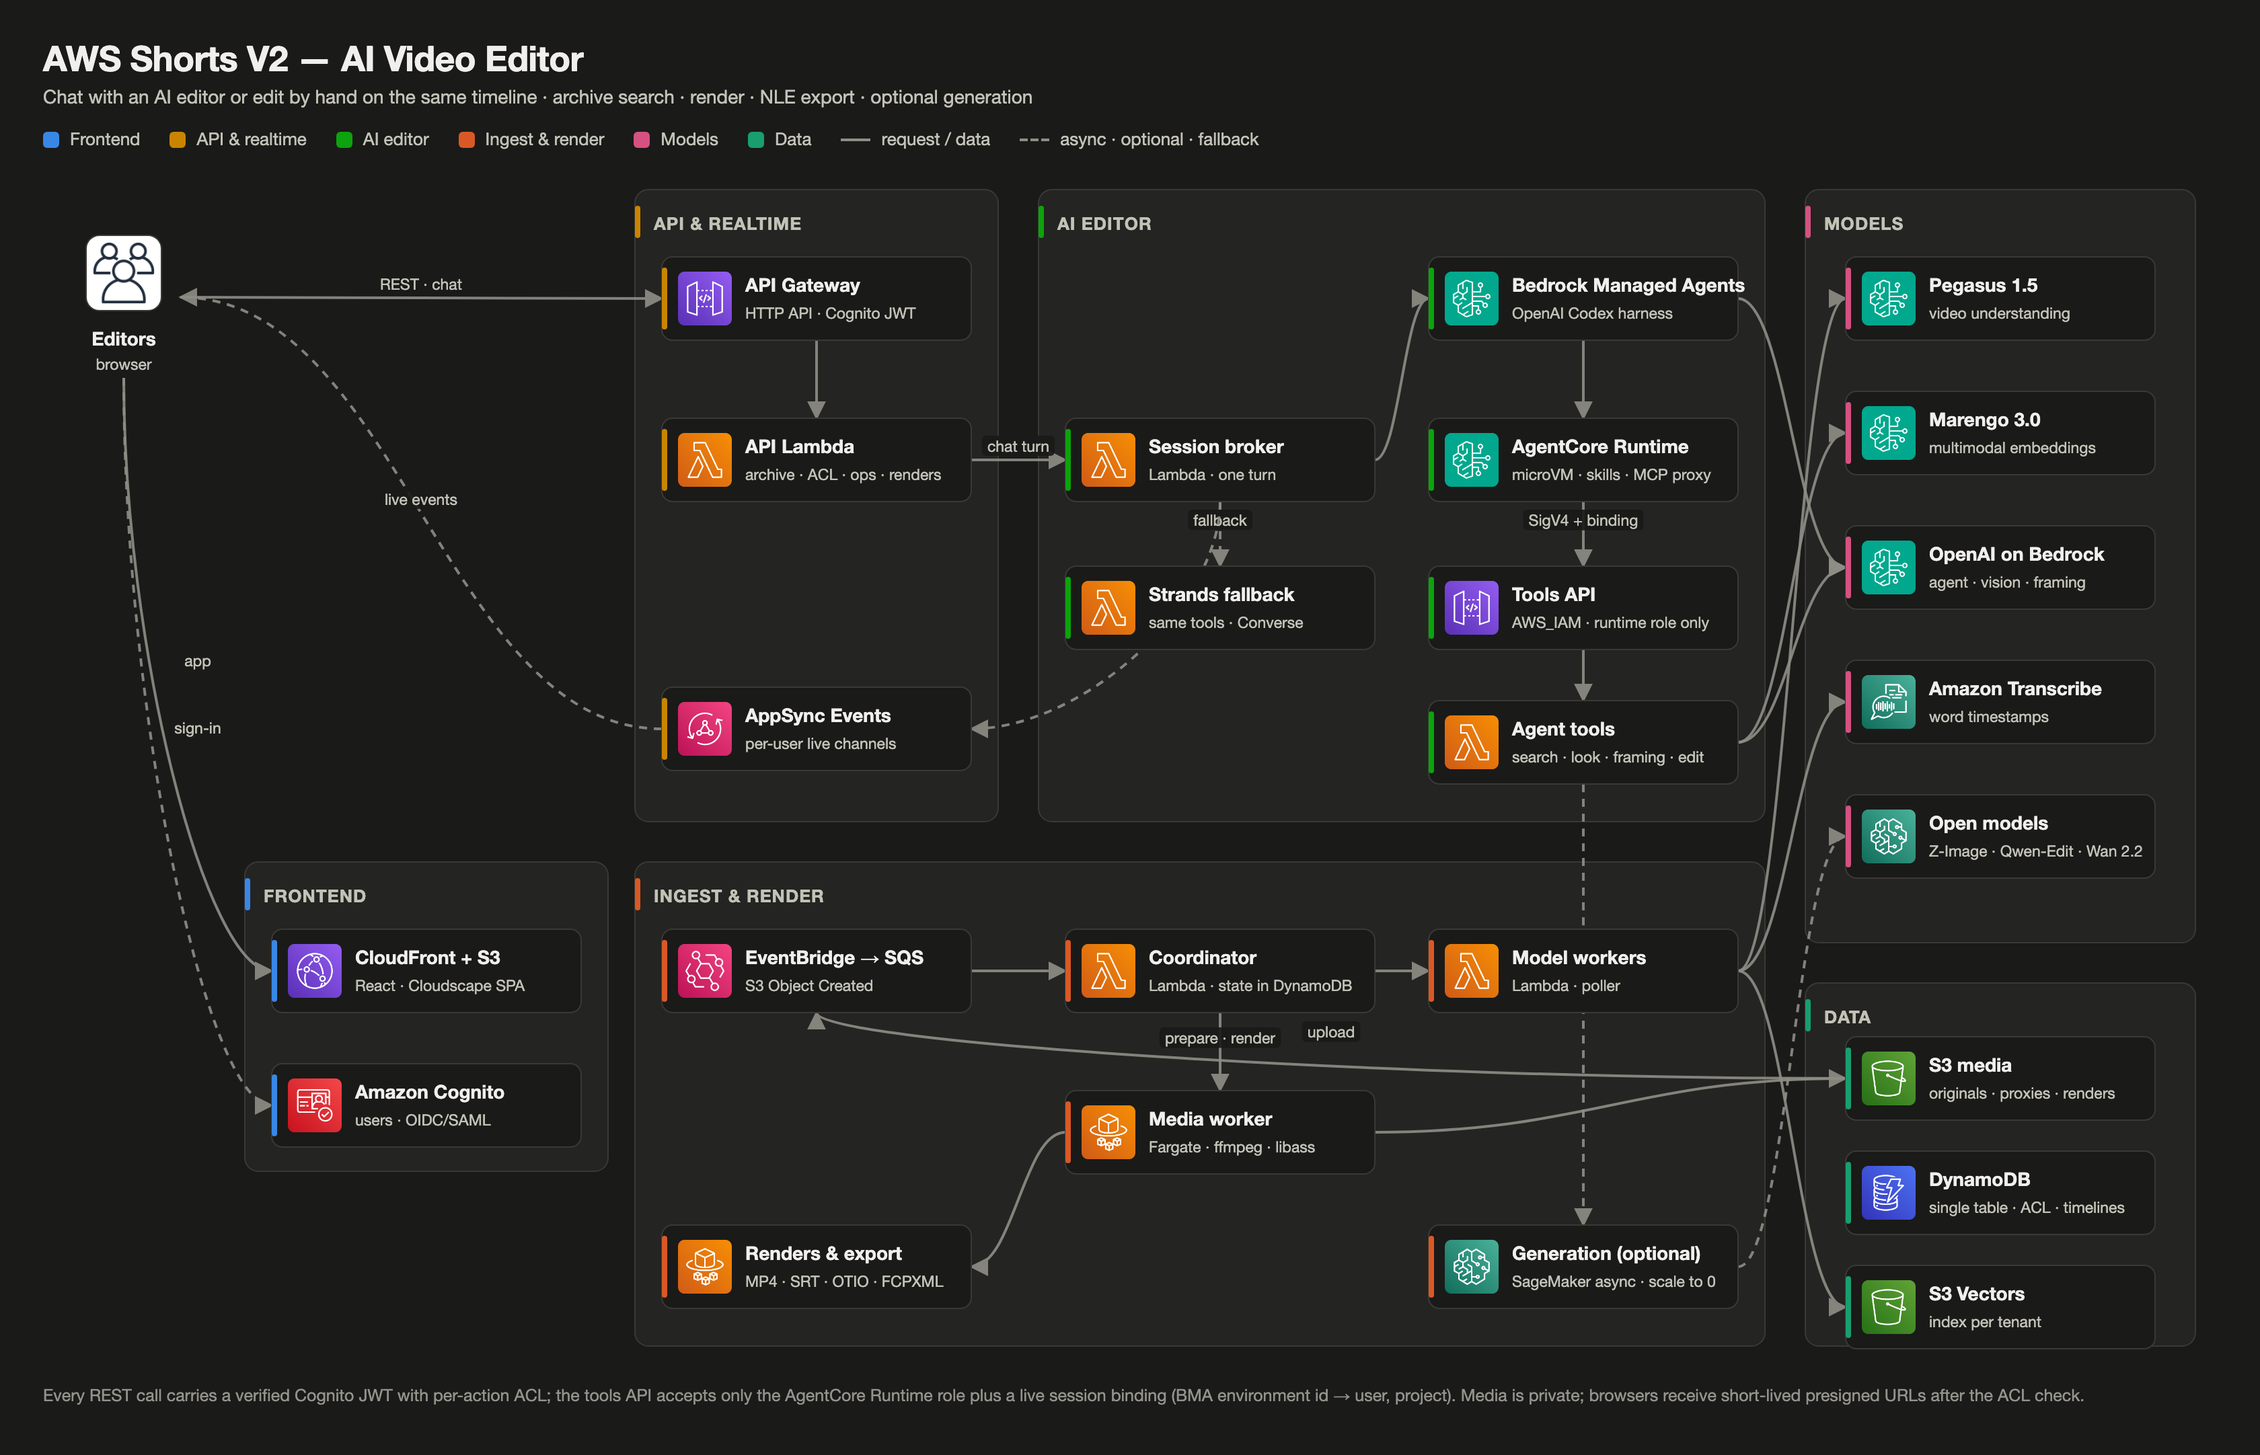
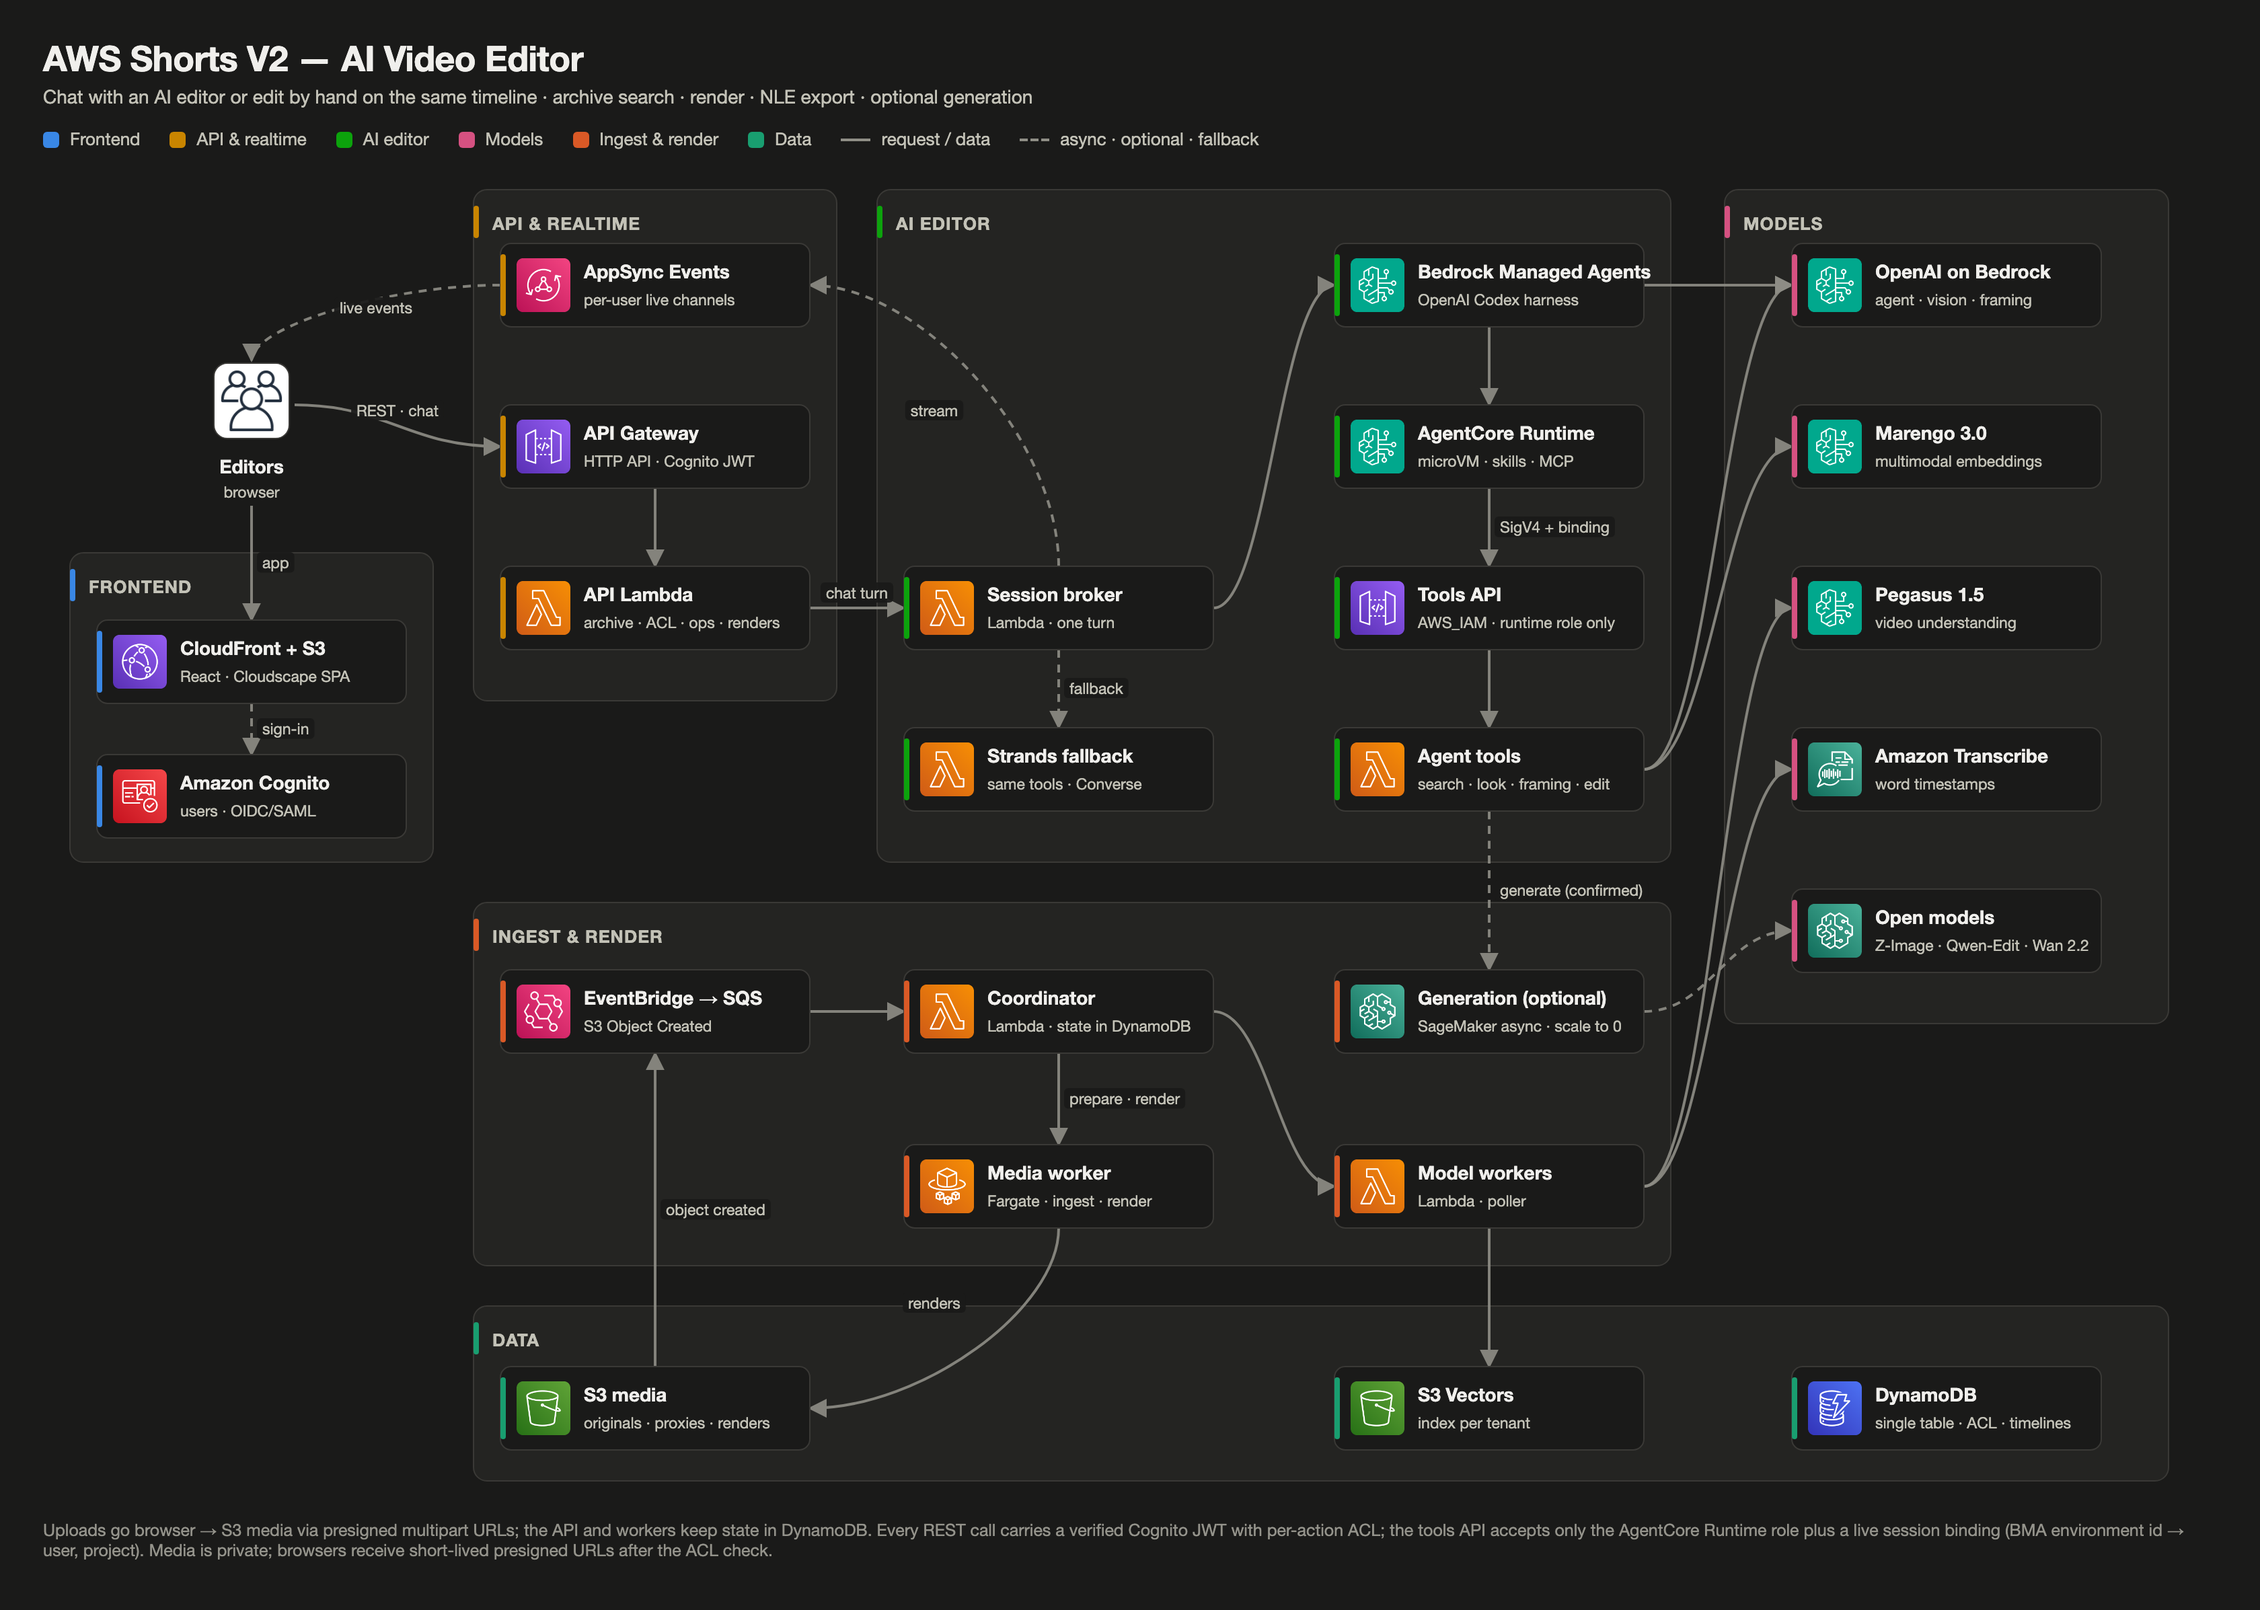
Architecture diagram: grid layout without edge/box collisions

diff --git a/docs/architecture/architecture.html b/docs/architecture/architecture.html
@@ -42,61 +42,66 @@
   <h1>AWS Shorts V2 — AI Video Editor</h1>
   <p class="sub">Chat with an AI editor or edit by hand on the same timeline · archive search · render · NLE export · optional generation</p>
   <div class="legend" id="legend"></div>
-  <svg id="d" width="1616" height="900" viewBox="0 0 1616 900" role="img" aria-label="Architecture diagram"></svg>
-  <p class="note">Every REST call carries a verified Cognito JWT with per-action ACL; the tools API accepts only the AgentCore Runtime role plus a live
+  <svg id="d" width="1600" height="1000" viewBox="0 0 1600 1000" role="img" aria-label="Architecture diagram"></svg>
+  <p class="note">Uploads go browser → S3 media via presigned multipart URLs; the API and workers keep state in DynamoDB. Every REST call carries a verified Cognito JWT with per-action ACL; the tools API accepts only the AgentCore Runtime role plus a live
   session binding (BMA environment id → user, project). Media is private; browsers receive short-lived presigned URLs after the ACL check.</p>
 </div>
 <script>
+// Grid: columns A (users/frontend) · B (API) · C+D (AI editor) · E (models); ingest + data below.
 const LANES = [
-  { id: 'fe', name: 'Frontend', color: 'var(--s1)', x: 150, y: 520, w: 270, h: 230 },
-  { id: 'api', name: 'API & realtime', color: 'var(--s4)', x: 440, y: 20, w: 270, h: 470 },
-  { id: 'ai', name: 'AI editor', color: 'var(--s6)', x: 740, y: 20, w: 540, h: 470 },
-  { id: 'ing', name: 'Ingest & render', color: 'var(--s2)', x: 440, y: 520, w: 840, h: 360 },
-  { id: 'mod', name: 'Models', color: 'var(--s5)', x: 1310, y: 20, w: 290, h: 560 },
-  { id: 'data', name: 'Data', color: 'var(--s3)', x: 1310, y: 610, w: 290, h: 270 },
+  { id: 'fe', name: 'Frontend', color: 'var(--s1)', x: 20, y: 290, w: 270, h: 230 },
+  { id: 'api', name: 'API & realtime', color: 'var(--s4)', x: 320, y: 20, w: 270, h: 380 },
+  { id: 'ai', name: 'AI editor', color: 'var(--s6)', x: 620, y: 20, w: 590, h: 500 },
+  { id: 'mod', name: 'Models', color: 'var(--s5)', x: 1250, y: 20, w: 330, h: 620 },
+  { id: 'ing', name: 'Ingest & render', color: 'var(--s2)', x: 320, y: 550, w: 890, h: 270 },
+  { id: 'data', name: 'Data', color: 'var(--s3)', x: 320, y: 850, w: 1260, h: 130 },
 ];
 const W = 230, H = 62;
-const ICON = {"cdn": "cloudfront", "cog": "cognito", "http": "apigw", "apifn": "lambda", "ev": "appsync", "broker": "lambda", "bma": "bedrock", "acr": "bedrock", "tapi": "apigw", "tools": "lambda", "strands": "lambda", "eb": "eventbridge", "coord": "lambda", "worker": "fargate", "mw": "lambda", "gen": "sagemaker", "render": "fargate", "peg": "bedrock", "mar": "bedrock", "oai": "bedrock", "tr": "transcribe", "oss": "sagemaker", "s3": "s3", "ddb": "dynamodb", "vec": "s3"};
+const ICON = { cdn: 'cloudfront', cog: 'cognito', http: 'apigw', apifn: 'lambda', ev: 'appsync', broker: 'lambda', bma: 'bedrock',
+  acr: 'bedrock', tapi: 'apigw', tools: 'lambda', strands: 'lambda', eb: 'eventbridge', coord: 'lambda', worker: 'fargate',
+  mw: 'lambda', gen: 'sagemaker', render: 'fargate', peg: 'bedrock', mar: 'bedrock', oai: 'bedrock', tr: 'transcribe',
+  oss: 'sagemaker', s3: 's3', ddb: 'dynamodb', vec: 's3' };
 const N = {
-  user:   { lane: null, x: 10, y: 60, t: 'Editors', s: 'browser' },
-  cdn:    { lane: 'fe', x: 170, y: 570, t: 'CloudFront + S3', s: 'React · Cloudscape SPA' },
-  cog:    { lane: 'fe', x: 170, y: 670, t: 'Amazon Cognito', s: 'users · OIDC/SAML' },
-  http:   { lane: 'api', x: 460, y: 70, t: 'API Gateway', s: 'HTTP API · Cognito JWT' },
-  apifn:  { lane: 'api', x: 460, y: 190, t: 'API Lambda', s: 'archive · ACL · ops · renders' },
-  ev:     { lane: 'api', x: 460, y: 390, t: 'AppSync Events', s: 'per-user live channels' },
-  broker: { lane: 'ai', x: 760, y: 190, t: 'Session broker', s: 'Lambda · one turn' },
-  bma:    { lane: 'ai', x: 1030, y: 70, t: 'Bedrock Managed Agents', s: 'OpenAI Codex harness' },
-  acr:    { lane: 'ai', x: 1030, y: 190, t: 'AgentCore Runtime', s: 'microVM · skills · MCP proxy' },
-  tapi:   { lane: 'ai', x: 1030, y: 300, t: 'Tools API', s: 'AWS_IAM · runtime role only' },
-  tools:  { lane: 'ai', x: 1030, y: 400, t: 'Agent tools', s: 'search · look · framing · edit' },
-  strands:{ lane: 'ai', x: 760, y: 300, t: 'Strands fallback', s: 'same tools · Converse' },
-  eb:     { lane: 'ing', x: 460, y: 570, t: 'EventBridge → SQS', s: 'S3 Object Created' },
-  coord:  { lane: 'ing', x: 760, y: 570, t: 'Coordinator', s: 'Lambda · state in DynamoDB' },
-  worker: { lane: 'ing', x: 760, y: 690, t: 'Media worker', s: 'Fargate · ffmpeg · libass' },
-  mw:     { lane: 'ing', x: 1030, y: 570, t: 'Model workers', s: 'Lambda · poller' },
-  gen:    { lane: 'ing', x: 1030, y: 790, t: 'Generation (optional)', s: 'SageMaker async · scale to 0' },
-  render: { lane: 'ing', x: 460, y: 790, t: 'Renders & export', s: 'MP4 · SRT · OTIO · FCPXML' },
-  peg:    { lane: 'mod', x: 1340, y: 70, t: 'Pegasus 1.5', s: 'video understanding' },
-  mar:    { lane: 'mod', x: 1340, y: 170, t: 'Marengo 3.0', s: 'multimodal embeddings' },
-  oai:    { lane: 'mod', x: 1340, y: 270, t: 'OpenAI on Bedrock', s: 'agent · vision · framing' },
-  tr:     { lane: 'mod', x: 1340, y: 370, t: 'Amazon Transcribe', s: 'word timestamps' },
-  oss:    { lane: 'mod', x: 1340, y: 470, t: 'Open models', s: 'Z-Image · Qwen-Edit · Wan 2.2' },
-  s3:     { lane: 'data', x: 1340, y: 650, t: 'S3 media', s: 'originals · proxies · renders' },
-  ddb:    { lane: 'data', x: 1340, y: 735, t: 'DynamoDB', s: 'single table · ACL · timelines' },
-  vec:    { lane: 'data', x: 1340, y: 820, t: 'S3 Vectors', s: 'index per tenant' },
+  user:   { x: 105, y: 155, t: 'Editors', s: 'browser' },
+  cdn:    { lane: 'fe', x: 40, y: 340, t: 'CloudFront + S3', s: 'React · Cloudscape SPA' },
+  cog:    { lane: 'fe', x: 40, y: 440, t: 'Amazon Cognito', s: 'users · OIDC/SAML' },
+  ev:     { lane: 'api', x: 340, y: 60, t: 'AppSync Events', s: 'per-user live channels' },
+  http:   { lane: 'api', x: 340, y: 180, t: 'API Gateway', s: 'HTTP API · Cognito JWT' },
+  apifn:  { lane: 'api', x: 340, y: 300, t: 'API Lambda', s: 'archive · ACL · ops · renders' },
+  broker: { lane: 'ai', x: 640, y: 300, t: 'Session broker', s: 'Lambda · one turn' },
+  strands:{ lane: 'ai', x: 640, y: 420, t: 'Strands fallback', s: 'same tools · Converse' },
+  bma:    { lane: 'ai', x: 960, y: 60, t: 'Bedrock Managed Agents', s: 'OpenAI Codex harness' },
+  acr:    { lane: 'ai', x: 960, y: 180, t: 'AgentCore Runtime', s: 'microVM · skills · MCP' },
+  tapi:   { lane: 'ai', x: 960, y: 300, t: 'Tools API', s: 'AWS_IAM · runtime role only' },
+  tools:  { lane: 'ai', x: 960, y: 420, t: 'Agent tools', s: 'search · look · framing · edit' },
+  oai:    { lane: 'mod', x: 1300, y: 60, t: 'OpenAI on Bedrock', s: 'agent · vision · framing' },
+  mar:    { lane: 'mod', x: 1300, y: 180, t: 'Marengo 3.0', s: 'multimodal embeddings' },
+  peg:    { lane: 'mod', x: 1300, y: 300, t: 'Pegasus 1.5', s: 'video understanding' },
+  tr:     { lane: 'mod', x: 1300, y: 420, t: 'Amazon Transcribe', s: 'word timestamps' },
+  oss:    { lane: 'mod', x: 1300, y: 540, t: 'Open models', s: 'Z-Image · Qwen-Edit · Wan 2.2' },
+  eb:     { lane: 'ing', x: 340, y: 600, t: 'EventBridge → SQS', s: 'S3 Object Created' },
+  coord:  { lane: 'ing', x: 640, y: 600, t: 'Coordinator', s: 'Lambda · state in DynamoDB' },
+  gen:    { lane: 'ing', x: 960, y: 600, t: 'Generation (optional)', s: 'SageMaker async · scale to 0' },
+  worker: { lane: 'ing', x: 640, y: 730, t: 'Media worker', s: 'Fargate · ingest · render' },
+  mw:     { lane: 'ing', x: 960, y: 730, t: 'Model workers', s: 'Lambda · poller' },
+  s3:     { lane: 'data', x: 340, y: 895, t: 'S3 media', s: 'originals · proxies · renders' },
+  ddb:    { lane: 'data', x: 1300, y: 895, t: 'DynamoDB', s: 'single table · ACL · timelines' },
+  vec:    { lane: 'data', x: 960, y: 895, t: 'S3 Vectors', s: 'index per tenant' },
 };
 // [from, to, label, dashed, fromSide, toSide]
 const E = [
-  ['user', 'cdn', 'app', false, 'b', 'l'], ['user', 'cog', 'sign-in', true, 'b', 'l'], ['user', 'http', 'REST · chat', false],
-  ['http', 'apifn', '', false, 'b', 't'], ['ev', 'user', 'live events', true, 'l', 'r'],
-  ['apifn', 'broker', 'chat turn', false], ['broker', 'bma', '', false], ['bma', 'acr', '', false, 'b', 't'],
+  ['user', 'http', 'REST · chat', false, 'r', 'l'], ['user', 'cdn', 'app', false, 'b', 't'],
+  ['cdn', 'cog', 'sign-in', true, 'b', 't'], ['ev', 'user', 'live events', true, 'l', 't'],
+  ['http', 'apifn', '', false, 'b', 't'], ['apifn', 'broker', 'chat turn', false, 'r', 'l'],
+  ['broker', 'strands', 'fallback', true, 'b', 't'], ['broker', 'ev', 'stream', true, 't', 'r'],
+  ['broker', 'bma', '', false, 'r', 'l'], ['bma', 'acr', '', false, 'b', 't'],
   ['acr', 'tapi', 'SigV4 + binding', false, 'b', 't'], ['tapi', 'tools', '', false, 'b', 't'],
-  ['broker', 'strands', 'fallback', true, 'b', 't'], ['broker', 'ev', '', true, 'b', 'r'],
-  ['tools', 'oai', '', false], ['tools', 'mar', '', false], ['bma', 'oai', '', false],
-  ['s3', 'eb', 'upload', false, 'l', 'b'], ['eb', 'coord', '', false], ['coord', 'worker', 'prepare · render', false, 'b', 't'],
-  ['coord', 'mw', '', false], ['mw', 'peg', '', false], ['mw', 'tr', '', false], ['mw', 'vec', '', false, 'r', 'l'],
-  ['worker', 's3', '', false, 'r', 'l'], ['worker', 'render', '', false, 'l', 'r'], ['tools', 'gen', 'generate (confirmed)', true, 'b', 't'],
-  ['gen', 'oss', '', true, 'r', 'l'],
+  ['bma', 'oai', '', false, 'r', 'l'], ['tools', 'oai', '', false, 'r', 'l'], ['tools', 'mar', '', false, 'r', 'l'],
+  ['tools', 'gen', 'generate (confirmed)', true, 'b', 't'], ['gen', 'oss', '', true, 'r', 'l'],
+  ['s3', 'eb', 'object created', false, 't', 'b'], ['eb', 'coord', '', false, 'r', 'l'],
+  ['coord', 'worker', 'prepare · render', false, 'b', 't'], ['coord', 'mw', '', false, 'r', 'l'],
+  ['worker', 's3', 'renders', false, 'b', 'r'],
+  ['mw', 'peg', '', false, 'r', 'l'], ['mw', 'tr', '', false, 'r', 'l'], ['mw', 'vec', '', false, 'b', 't'],
 ];
 const svg = document.getElementById('d');
 const NS = 'http://www.w3.org/2000/svg';
@@ -112,7 +117,7 @@ for (const l of LANES) {
 }
 const port = (n, side) => {
   const p = N[n];
-  if (n === 'user') return { r: [p.x + 92, p.y + 40], l: [p.x, p.y + 40], t: [p.x + 50, p.y], b: [p.x + 50, p.y + 100] }[side];
+  if (n === 'user') return { r: [p.x + 82, p.y + 25], l: [p.x + 18, p.y + 25], t: [p.x + 50, p.y - 8], b: [p.x + 50, p.y + 100] }[side];
   return { r: [p.x + W, p.y + H / 2], l: [p.x, p.y + H / 2], t: [p.x + W / 2, p.y], b: [p.x + W / 2, p.y + H] }[side];
 };
 for (const [a, b, label, dashed, fs, ts] of E) {
@@ -127,8 +132,9 @@ for (const [a, b, label, dashed, fs, ts] of E) {
   el('path', { d: `M${x1},${y1} C${c1[0]},${c1[1]} ${c2[0]},${c2[1]} ${x2},${y2}`, fill: 'none', stroke: 'var(--edge)',
     'stroke-width': 2, 'stroke-dasharray': dashed ? '6 5' : '', 'marker-end': 'url(#arrow)', opacity: 0.9 });
   if (label) {
-    const mx = (x1 + x2) / 2, my = (y1 + y2) / 2 - 6;
-    const t = el('text', { x: mx, y: my, 'text-anchor': 'middle', class: 'edge-label' }); t.textContent = label;
+    const vertical = Math.abs(x2 - x1) < 12;
+    const mx = vertical ? x1 + 8 : (x1 + x2) / 2, my = vertical ? (y1 + y2) / 2 + 4 : (y1 + y2) / 2 - 7;
+    const t = el('text', { x: mx, y: my, 'text-anchor': vertical ? 'start' : 'middle', class: 'edge-label' }); t.textContent = label;
     const bb = t.getBBox();
     const bg = el('rect', { x: bb.x - 4, y: bb.y - 1, width: bb.width + 8, height: bb.height + 2, rx: 3, fill: 'var(--surface-1)', opacity: 0.92 });
     svg.insertBefore(bg, t);
